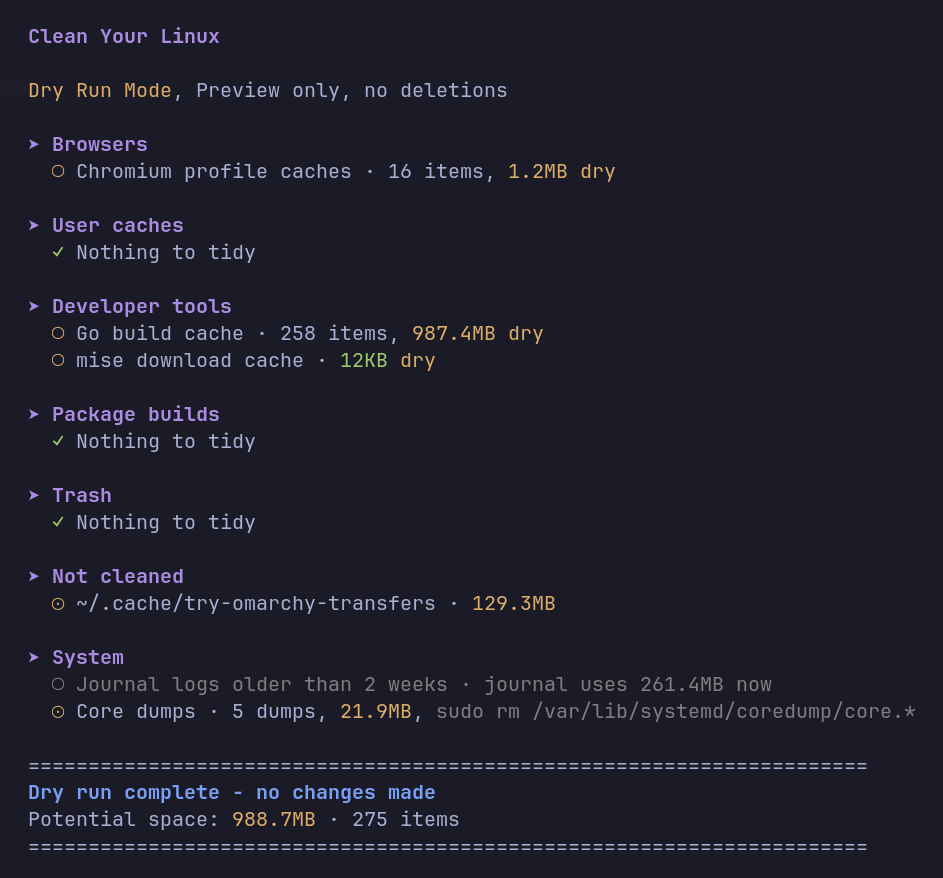
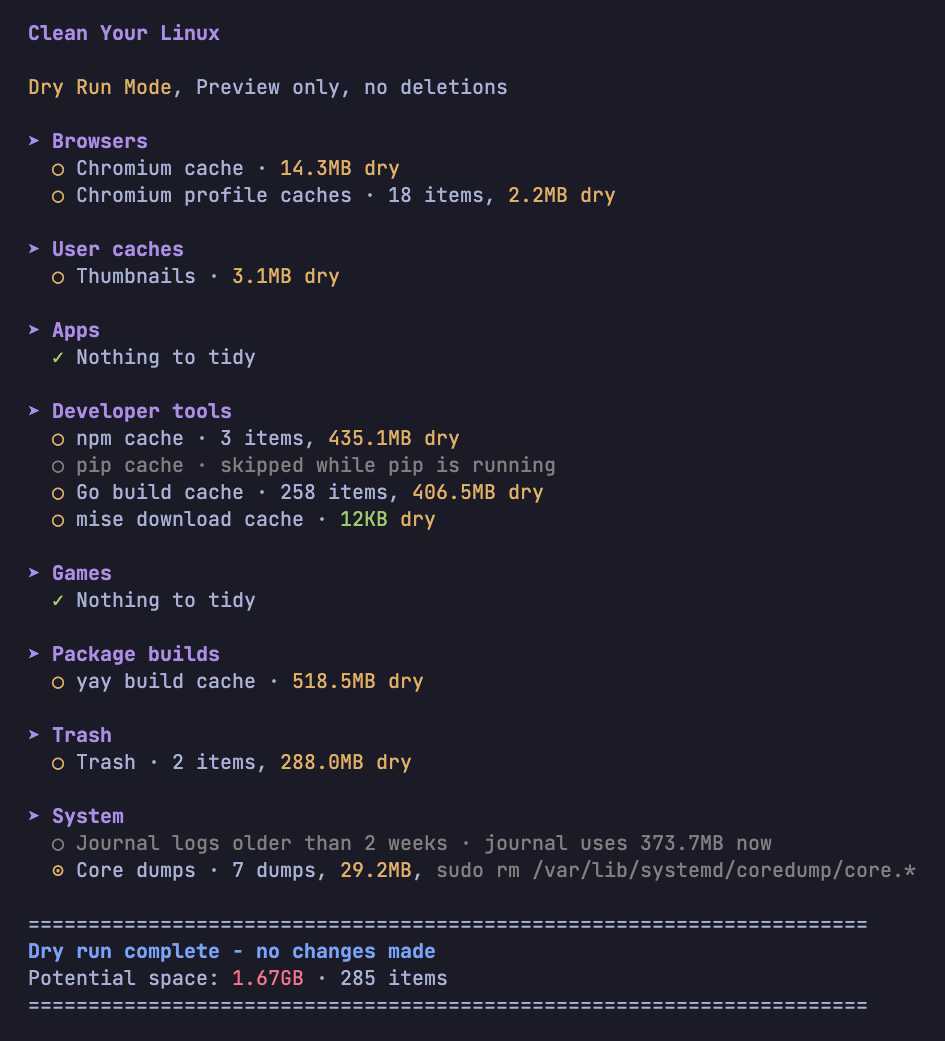
docs: retake the clean screenshot and add one for purge
The old clean screenshot showed mostly Nothing to tidy and the Try Omarchy launcher's own transfer folder, which says little about what Mole finds on a used machine, and Purge had no screenshot at all.

Both come from V0.4.0-linux on the Omarchy VM after real use: Chromium browsing, npm and pip installs in four Vite and Python projects, a yay fetch of visual-studio-code-bin, file thumbnails and two downloads in the Trash. The output was captured from tmux with its colours and drawn in foot's Tokyo Night palette and font metrics, since the VM's screen was behind hyprlock. The purge picker was cancelled with Q, and the projects, downloads and fetch were removed afterwards.

Changed region(s): [[0.0308, 0.0, 0.9533, 0.9841], [0.492, 0.6765, 0.5843, 0.7073]]

diff --git a/README.md b/README.md
@@ -140,6 +140,8 @@ mo purge
 mo purge --paths
 ```
 
+<img src="./docs/img/purge-linux.png" alt="mo purge project list" width="900" />
+
 Scans `~/www`, `~/dev`, `~/Projects`, `~/code` and similar folders, plus any home folder that holds a project, or only the folders listed in `~/.config/mole/purge_paths`. Folders changed in the last 7 days and projects a program works in start unselected; the rest start selected. Outside a terminal, `--yes` removes only what is older than 7 days.
 
 ## Community
